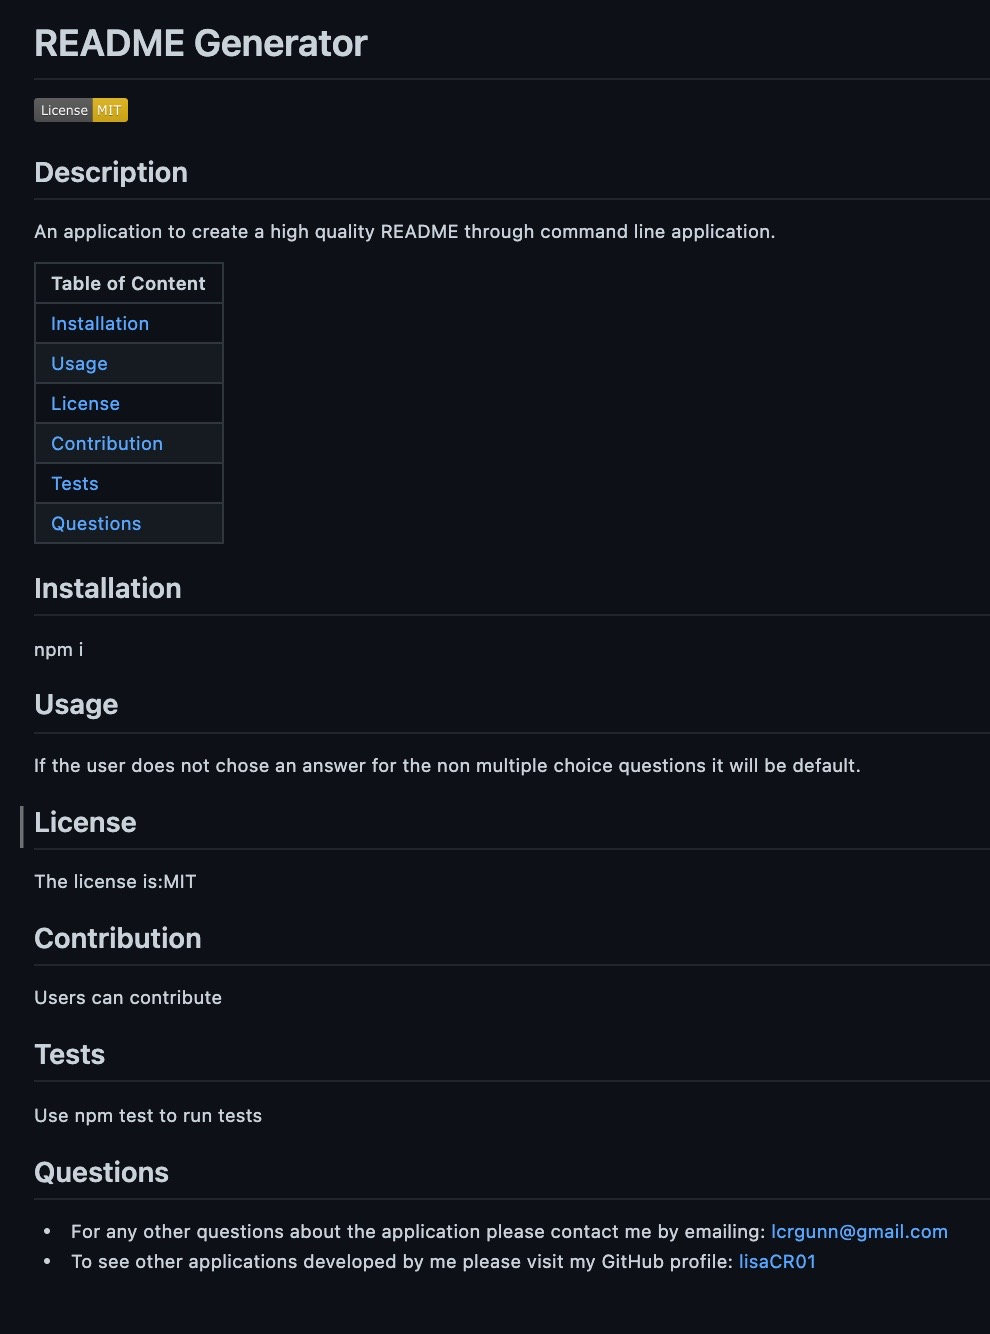
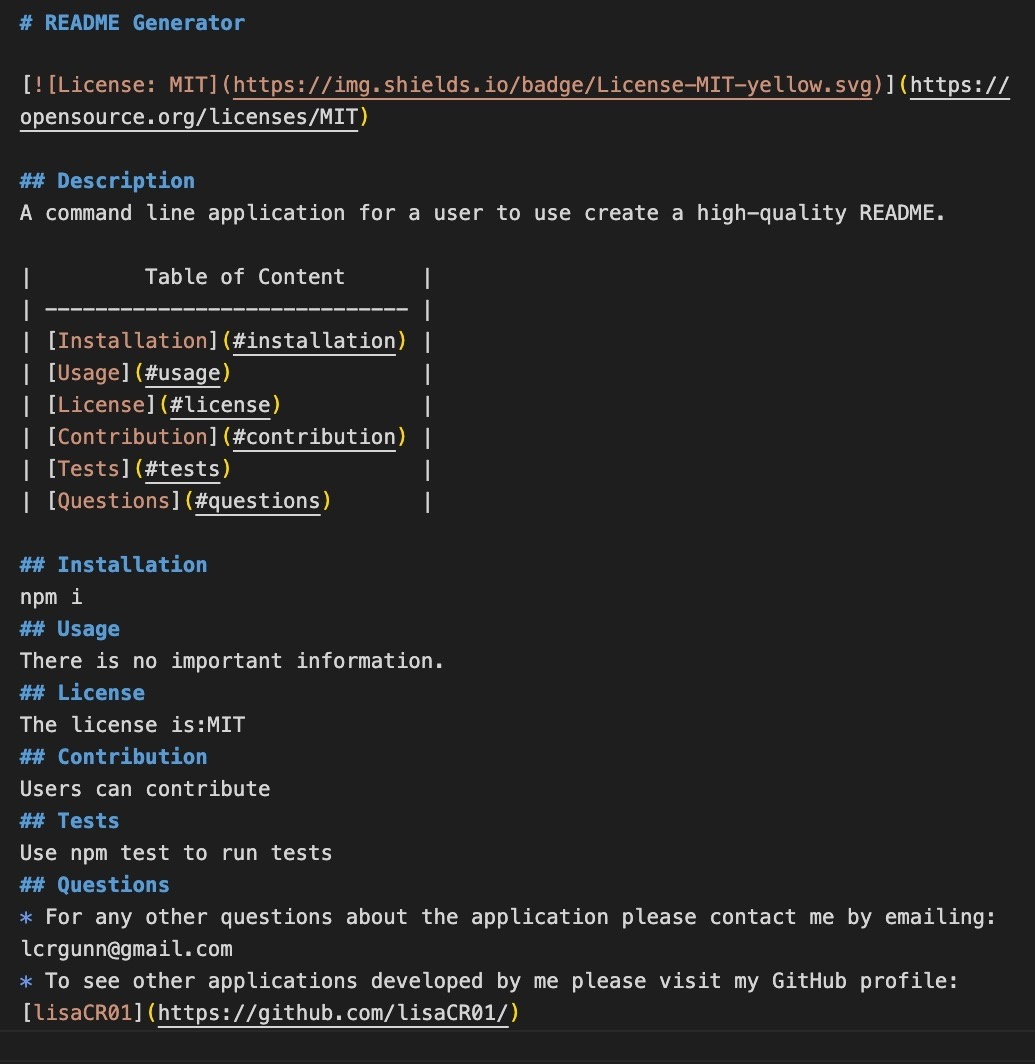
added walkthrough video and used correct screenshot of preview README

Changed region(s): [[0.0, 0.0, 1.0, 1.0]]

diff --git a/README.md b/README.md
@@ -1,111 +1,29 @@
-# 09 Node.js Homework: Professional README Generator
+# README Generator
+In this project I created a command line application that dynamically generates a professional README file from a user's input called 'README-generated'. The motivation for this project is to allow creators to devote more time to working on the project than formatting their README file. I used the 'Professional README Guide' format to create the a polished appearance for the generated README. The main learning points for me of this projects is the use of package.json and its dependencies and using a .gitignore file to make sure pm dependencies aren't tracked or uploaded to GitHub. 
 
-## Your Task
+## Technologies Used
+* Inquirer package
+* JavaScript
+* jQuery
+* Node.js
+* JSON
 
-When creating an open source project on GitHub, it’s important to have a high-quality README for the app. This should include what the app is for, how to use the app, how to install it, how to report issues, and how to make contributions&mdash;this last part increases the likelihood that other developers will contribute to the success of the project. 
+## Criteria that I Met to Achieve this
+* When the user answers command line prompts a high-quality, professional README.md is generated.
+* When the user enters a project title this is displayed as their README title
+* When the user enters details for sections they are added to the corresponding sections of the README.
+* When the user choses a license for their application then a badge appears at the top of the README and a notice is added to the license section.
+* When the user enters their GitHub username then a link to it is added to the Questions section of the README.
+* When the user enters their email this is added to the Questions section of the README for how to reach them.
+* When the user click on the links in the Table of Contents they are taken to the corresponding section of the README. 
 
-You can quickly and easily create a README file by using a command-line application to generate one. This allows the project creator to devote more time to working on the project.
+## Application 
 
-Your task is to create a command-line application that dynamically generates a professional README.md file from a user's input using the [Inquirer package](https://www.npmjs.com/package/inquirer). Review the [Professional README Guide](https://coding-boot-camp.github.io/full-stack/github/professional-readme-guide) as a reminder of everything that a high-quality, professional README should contain. 
+### Walkthrough Video
+[Link to Walkthrough Video](https://drive.google.com/file/d/1zxD-1cracDrrw2A4JiQZFUxALDhSm2VG/view)
 
-The application will be invoked by using the following command:
-
-```bash
-node index.js
-```
-
-Because this application won’t be deployed, you’ll also need to provide a link to a walkthrough video that demonstrates its functionality. Revisit the Screencastify Tutorial in the prework as a refresher on how to record video from your computer. You’ll need to submit a link to the video _and_ add it to the README of your project.
-
-
-## User Story
-
-```md
-AS A developer
-I WANT a README generator
-SO THAT I can quickly create a professional README for a new project
-```
-
-## Acceptance Criteria
-
-```md
-GIVEN a command-line application that accepts user input
-WHEN I am prompted for information about my application repository
-THEN a high-quality, professional README.md is generated with the title of my project and sections entitled Description, Table of Contents, Installation, Usage, License, Contributing, Tests, and Questions
-WHEN I enter my project title
-THEN this is displayed as the title of the README
-WHEN I enter a description, installation instructions, usage information, contribution guidelines, and test instructions
-THEN this information is added to the sections of the README entitled Description, Installation, Usage, Contributing, and Tests
-WHEN I choose a license for my application from a list of options
-THEN a badge for that license is added near the top of the README and a notice is added to the section of the README entitled License that explains which license the application is covered under
-WHEN I enter my GitHub username
-THEN this is added to the section of the README entitled Questions, with a link to my GitHub profile
-WHEN I enter my email address
-THEN this is added to the section of the README entitled Questions, with instructions on how to reach me with additional questions
-WHEN I click on the links in the Table of Contents
-THEN I am taken to the corresponding section of the README
-```
-
-## Getting Started
-
-Here are some guidelines to help you get started:
-
-* Create a `.gitignore` file and include `node_modules/` and `.DS_Store/` so that your `node_modules` directory isn't tracked or uploaded to GitHub. Be sure to create your `.gitignore` file before installing any npm dependencies.
-
-* Make sure that your repo includes a `package.json` with the required dependencies. You can create one by running `npm init` when you first set up the project, before installing any dependencies.
-
-* Include a video of the typical user flow through your application. This includes views of the prompts and the responses after their selection.
-
-* Include any other screenshots you deem necessary to help someone who has never been introduced to your application understand the purpose and function of it. This is how you will communicate to potential employers or other developers in the future what you built and why, and to show how it works.
-
-## Grading Requirements
-
-This homework is graded based on the following criteria: 
-
-### Deliverables: 20%
-
-* A sample README generated using the application must be submitted.
-
-* Your GitHub repository containing your application code.
-
-### Walkthrough Video: 27%
-
-* A walkthrough video that demonstrates the functionality of the README generator must be submitted, and a link to the video should be included in your README file.
-
-* The walkthrough video must demonstrate how a user would invoke the application from the command line.
-
-* The walkthrough video must demonstrate how a user would enter responses to all of the prompts in the application.
-
-* The walkthrough video must demonstrate a generated README that matches the user input and has a functioning table of contents.
-
-### Technical Acceptance Criteria: 40%
-
-* Satisfies all of the above acceptance criteria plus the following:
-
-	* Uses the [Inquirer package](https://www.npmjs.com/package/inquirer).
-
-### Repository Quality: 13%
-
-* Repository has a unique name.
-
-* Repository follows best practices for file structure and naming conventions.
-
-* Repository follows best practices for class/id naming conventions, indentation, quality comments, etc.
-
-* Repository contains multiple descriptive commit messages.
-
-* Repository contains a high-quality README with description and a link to walkthrough video.
-
-
-## Review
-
-You are required to submit the following for review:
-
-* A walkthrough video demonstrating the functionality of the application.
-
-* A sample README.md file for a project repository generated using your application
-
-* The URL of the GitHub repository, with a unique name and a README describing the project
-
----
-
-© 2022 Trilogy Education Services, LLC, a 2U, Inc. brand. Confidential and Proprietary. All Rights Reserved.
+### Preview of generated README
+![README Preview](./Develop/Images/Preview-README.jpg?raw=true)
+### Default Answer
+The default answer is the writing in brackets after the command line question. It can be selected by the user by just clicking enter.
+![Default Answer](./Develop/Images/Default-Answer.jpg?raw=true)

diff --git a/Develop/README-generated.md b/Develop/README-generated.md
@@ -4,7 +4,7 @@
   [![License: MIT](https://img.shields.io/badge/License-MIT-yellow.svg)](https://opensource.org/licenses/MIT)
 
   ## Description 
-  blah blah blah 
+  A command line application for a user to use create a high-quality README. 
 
   |         Table of Content      |
   | ----------------------------- |
